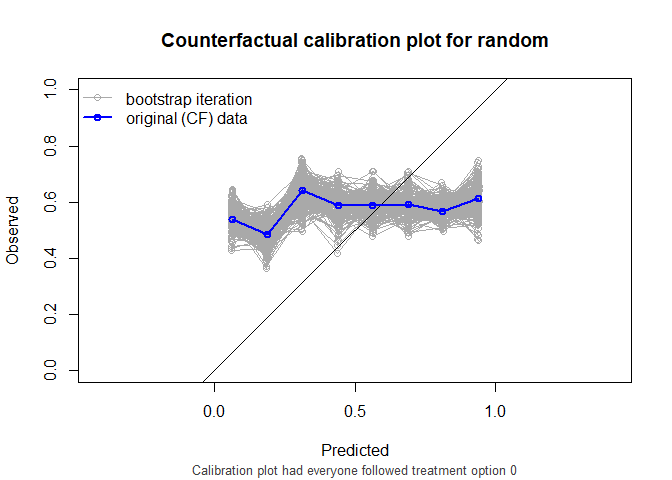
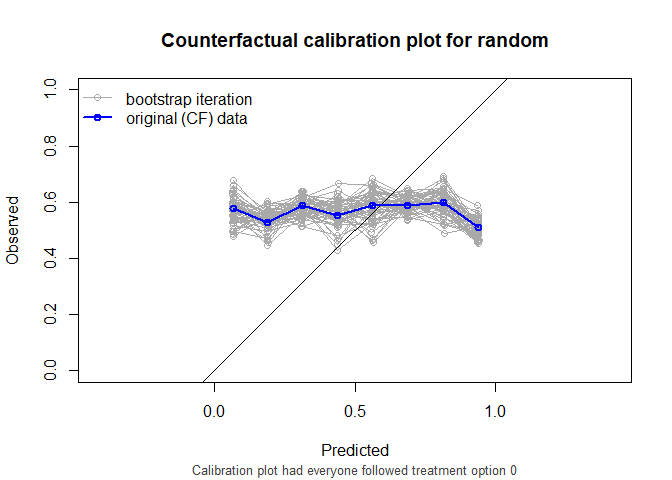
larger n for more stable results

Changed region(s): [[0.3438, 0.3125, 0.7188, 0.5625]]

diff --git a/README.md b/README.md
@@ -42,13 +42,16 @@ example</figcaption>
 </figure>
 
 ``` r
-n <- 1000
+simulate_data <- function(n, seed) {
+  data <- data.frame(id = 1:n)
+  data$L <- rnorm(n)
+  data$A <- rbinom(n, 1, plogis(2*data$L))
+  data$P <- rnorm(n)
+  data$Y <- rbinom(n, 1, plogis(0.5 + data$L + 1.25 * data$P - 0.9*data$A))
+  data
+}
 
-df_dev <- data.frame(id = 1:n)
-df_dev$L <- rnorm(n)
-df_dev$A <- rbinom(n, 1, plogis(2*df_dev$L))
-df_dev$P <- rnorm(n)
-df_dev$Y <- rbinom(n, 1, plogis(0.5 + df_dev$L + 1.25 * df_dev$P - 0.9*df_dev$A))
+df_dev <- simulate_data(n = 2000, seed = 1)
 ```
 
 We also need something to validate. We will create a couple of models
@@ -76,26 +79,19 @@ model correctly infers that treatment benefits patients.
 ``` r
 print(coefficients(naive_model))
 #> (Intercept)           A           P 
-#> -0.09438097  0.25710271  0.98079027
+#>  -0.1088558   0.3407801   1.1878727
 print(coefficients(causal_model))
 #> (Intercept)           A           P 
-#>   0.3569683  -0.9224453   0.9183316
+#>   0.3862409  -0.6863653   1.1949409
 ```
 
 We are now interested in how the models perform in an external
 validation dataset. This dataset can have a different causal structure
-from the original development dataset. In this example, we simulate that
-patients are treated more aggressively. The relation between the outcome
-and the other variables is the same.
+from the original development dataset. In this example, the data is
+simulated in the same way.
 
 ``` r
-n <- 5000
-
-df_val <- data.frame(id = 1:n)
-df_val$L <- rnorm(n)
-df_val$A <- rbinom(n, 1, plogis(0.5 + 2*df_val$L))
-df_val$P <- rnorm(n)
-df_val$Y <- rbinom(n, 1, plogis(0.5 + df_val$L + 1.25 * df_val$P - 0.9*df_val$A))
+df_val <- simulate_data(n = 5000, seed = 2)
 ```
 
 One option to validate the models would be to leave the data as it is,
@@ -117,9 +113,9 @@ observed_score(
 )
 #> 
 #>         model   auc brier oeratio
-#>        random 0.508 0.327   0.996
-#>   naive model 0.775 0.195   0.970
-#>  causal model 0.725 0.213   1.066
+#>        random 0.505 0.331   1.010
+#>   naive model 0.764 0.198   0.998
+#>  causal model 0.741 0.207   1.001
 ```
 
 From this it seems that the naive model performs better than the fancy
@@ -182,19 +178,19 @@ CFscore(
 #> - Consistency
 #> - No interference
 #> - Correctly specified propensity formula. Estimated treatment model is
-#>  logit(A) = 0.48 + 1.99*L. See also $ipt$model
+#>  logit(A) = -0.07 + 2.05*L. See also $ipt$model
 #> 
 #>         model   auc brier oeratio
-#>    null model 0.500 0.244    1.00
-#>        random 0.519 0.319    1.17
-#>   naive model 0.752 0.208    1.21
-#>  causal model 0.752 0.198    1.01
+#>    null model 0.500 0.245    1.00
+#>        random 0.496 0.335    1.14
+#>   naive model 0.766 0.204    1.20
+#>  causal model 0.766 0.196    1.00
 ```
 
 <img src="man/figures/README-unnamed-chunk-8-1.png" width="100%" />
 
 And similarly, if everybody would have been treated (not printing the
-assumptions and calibration plots again):
+assumptions again):
 
 ``` r
 CFscore(
@@ -207,16 +203,17 @@ CFscore(
   outcome_formula = Y ~ 1,
   treatment_formula = A ~ L, 
   treatment_of_interest = 1,
-  metrics = c("auc", "brier", "oeratio"),
   quiet = TRUE
 )
 #> 
 #>         model   auc brier oeratio
-#>    null model 0.500 0.246   1.000
-#>        random 0.518 0.323   0.886
-#>   naive model 0.770 0.202   0.827
-#>  causal model 0.770 0.198   1.154
+#>    null model 0.500 0.241   1.000
+#>        random 0.533 0.314   0.812
+#>   naive model 0.739 0.218   0.751
+#>  causal model 0.739 0.202   0.930
 ```
+
+<img src="man/figures/README-unnamed-chunk-9-1.png" width="100%" />
 
 As we see, the causal model has best calibration and Brier score.
 
@@ -243,7 +240,7 @@ CFscore(
   outcome_formula = Y ~ 1,
   treatment_formula = A ~ L, 
   treatment_of_interest = 0,
-  bootstrap = 200,
+  bootstrap = 50,
   bootstrap_progress = FALSE,
   stable_iptw = TRUE,
   quiet = TRUE
@@ -253,25 +250,25 @@ CFscore(
 #> 
 #>         model   auc lower upper
 #>    null model 0.500 0.500 0.500
-#>        random 0.519 0.486 0.557
-#>   naive model 0.752 0.722 0.785
-#>  causal model 0.752 0.722 0.785
+#>        random 0.496 0.471 0.526
+#>   naive model 0.766 0.740 0.801
+#>  causal model 0.766 0.740 0.801
 #> 
 #> brier
 #> 
 #>         model brier lower upper
-#>    null model 0.244 0.238 0.248
-#>        random 0.319 0.300 0.338
-#>   naive model 0.208 0.195 0.221
-#>  causal model 0.198 0.189 0.208
+#>    null model 0.245 0.241 0.249
+#>        random 0.335 0.316 0.351
+#>   naive model 0.204 0.189 0.215
+#>  causal model 0.196 0.181 0.208
 #> 
 #> oeratio
 #> 
 #>         model oeratio lower upper
-#>    null model    1.00 0.948  1.06
-#>        random    1.17 1.107  1.24
-#>   naive model    1.21 1.147  1.28
-#>  causal model    1.01 0.958  1.07
+#>    null model    1.00 0.947  1.06
+#>        random    1.14 1.083  1.21
+#>   naive model    1.20 1.144  1.27
+#>  causal model    1.00 0.949  1.05
 ```
 
 <img src="man/figures/README-unnamed-chunk-10-1.png" width="100%" /><img src="man/figures/README-unnamed-chunk-10-2.png" width="100%" /><img src="man/figures/README-unnamed-chunk-10-3.png" width="100%" /><img src="man/figures/README-unnamed-chunk-10-4.png" width="100%" /><img src="man/figures/README-unnamed-chunk-10-5.png" width="100%" />
